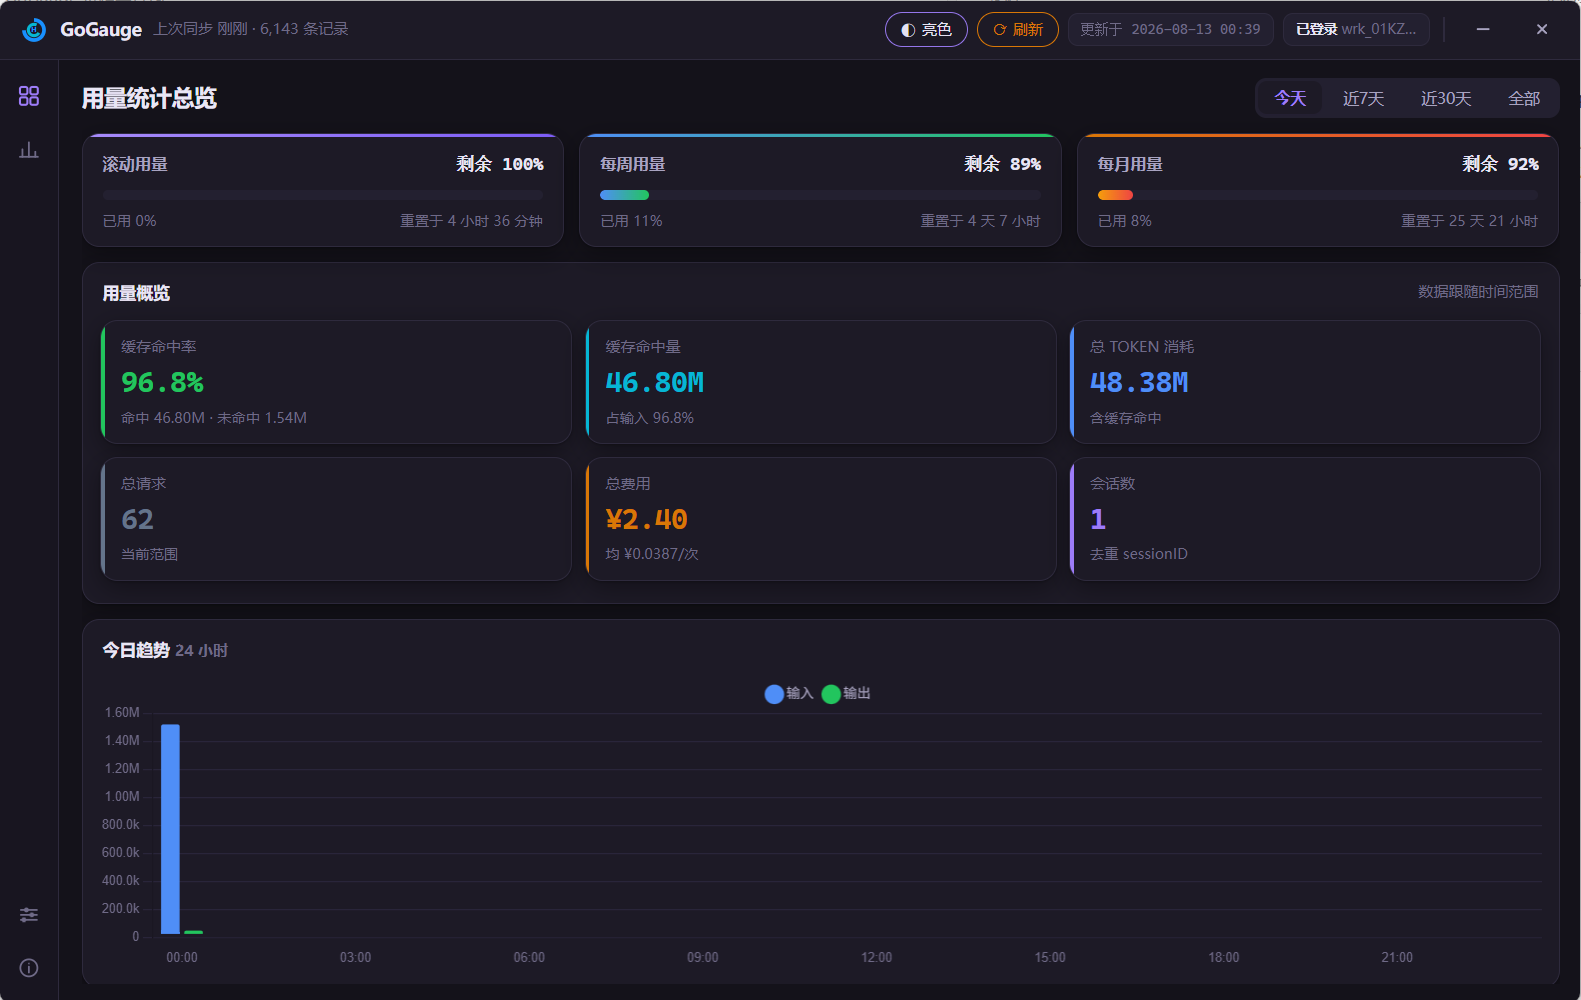
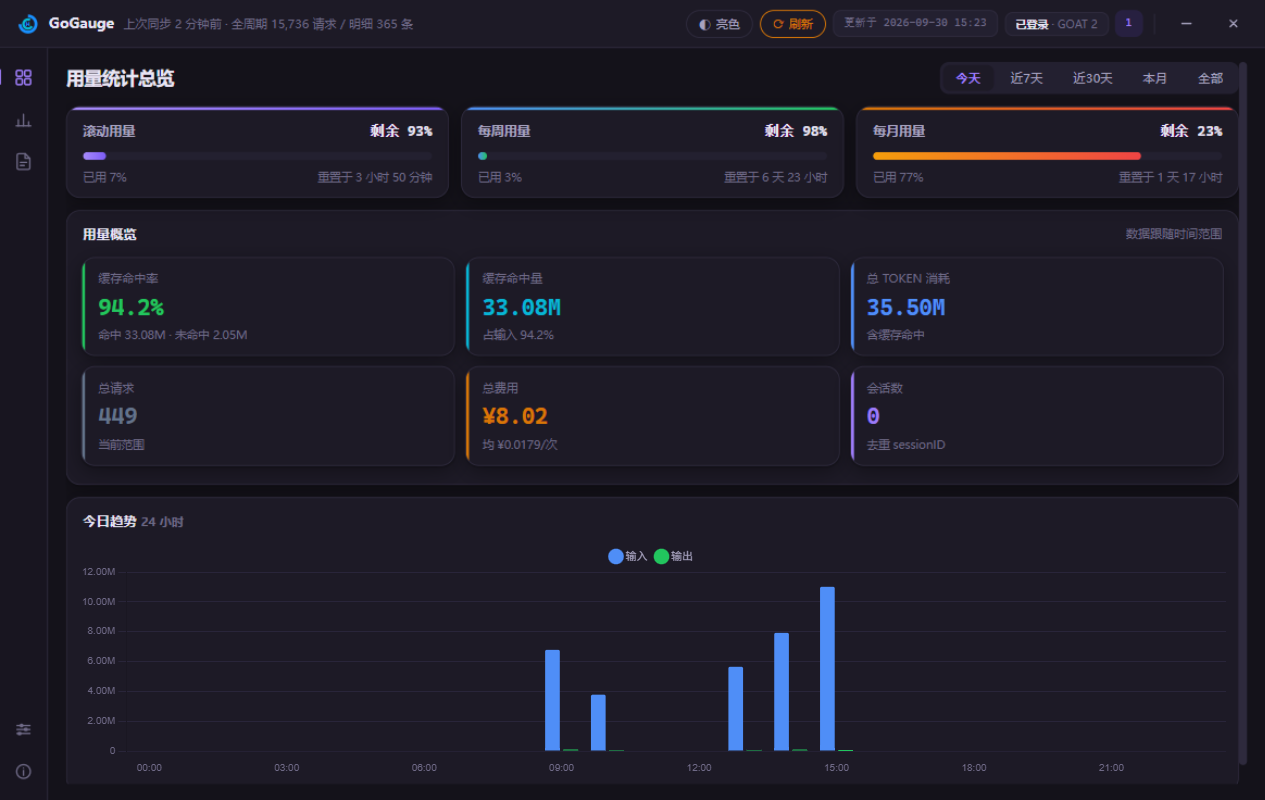
docs(readme): 修正过时描述 + 重拍全平台截图
- 关闭窗口: 删除与"最小化到托盘"自相矛盾的"关闭即退出应用"; 33b7220 引入
  该文案后托盘被 v2.2.0 合并恢复, 文档只回滚了一半
- 汇率缓存 24h -> 6h (server.py _EXCHANGE_TTL)
- 打包体积 38MB -> 17MB (build.bat 已排除 numpy/cryptography/PIL._avif)
- "版本更新"从 macOS 增强提为通用功能: updater 双平台分别取 .exe / .zip
- 数据说明补全 Command Code 接口清单, 并写明其 usage 仅保留 24h/100 条的硬限制
- 隐私条目写明 DPAPI / 钥匙串加密, 把"绝不写入日志"收窄为可核对的事实
- docs/macos.md: CI 构建机 macos-13 -> macos-15-intel (旧镜像已退役)
- assets/screenshots: 重拍 7 张 (原图停在 v1.0.0, 缺图表动画/账户总览面板等新项)

中英 README 同步修改。

diff --git a/README_en.md b/README_en.md
@@ -57,9 +57,10 @@
 - **Accounts overview panel**: toggle in settings, aggregates each account's quota windows and today's usage with cross-account summary KPIs and a 7-day cost trend comparison
 - **Built-in WebView login**: independent login window opens the opencode.ai console sign-in page, auto-captures session & workspace — no manual copy-paste
 - **Auto sync**: incremental sync (1/5/15/30 min) + sync range (30/60/90/180 days / All)
+- **Version updates**: the settings page checks GitHub Releases; a new version can be downloaded in-app (`.exe` on Windows, `.zip` on macOS, revealed in Finder), falling back to the release page
 - **Dual themes**: light / dark toggle; bilingual UI (中文 / English)
 - **System tray / menu bar**: closing the window minimizes to the system tray (Windows) or the menu bar (macOS); brand logo icons
-- **macOS extras**: menu-bar quick panel for today's usage (30s refresh), semi-automatic updates, launch-at-login — see [docs/macos.md](docs/macos.md)
+- **macOS extras**: menu-bar quick panel for today's usage (30s refresh), launch-at-login (LaunchAgent) — see [docs/macos.md](docs/macos.md)
 - **Local-first**: all data stays in local SQLite; credentials are only used to sync official APIs
 
 ## 🖥 Quick Start
@@ -72,7 +73,7 @@ Download `GoGauge-vX.X.X-windows.exe` (single file, no install) from [Releases](
 2. After login, the dashboard loads and usage data syncs automatically
 3. Data is stored in the `data\` folder next to the exe
 
-> Requires Windows 10/11 (WebView2 Runtime built-in). Closing the window quits the app.
+> Requires Windows 10/11 (WebView2 Runtime built-in). Closing the window minimizes to the system tray; use the tray menu's "Quit" to exit.
 
 > ⚠ **Upgrading from v2.1.0 or earlier**: opencode.ai switched to its new console API, so the stored session is void. The stale credential is cleared automatically, the app returns to the welcome page — just log in once (local history is kept).
 
@@ -104,7 +105,7 @@ python entry.py
 build.bat
 ```
 
-Output: `dist\GoGauge.exe` (~38 MB, --noconsole, logo icon included).
+Output: `dist\GoGauge.exe` (~17 MB, --noconsole, logo icon included).
 
 **macOS**
 
@@ -119,15 +120,16 @@ Output: `dist/GoGauge.app` (no console window; `.icns` icon and menu-bar tray su
 
 ## 📊 Data Notes
 
-- **Source**: OpenCode Go = opencode.ai console API (`/console/api`) — `go/status` quota + `request-logs` usage detail + `service-accounts` key names; Command Code GOAT = api.commandcode.ai internal API (credits / usage)
+- **Source**: OpenCode Go = opencode.ai console API (`/console/api`) — `go/status` quota + `request-logs` usage detail + `service-accounts` key names; Command Code GOAT = api.commandcode.ai internal API — `billing/credits` / `billing/subscriptions` quota + `usage` / `usage/summary` detail + `usage/charts` per-cycle aggregation
 - **Total tokens** = input (incl. cache hits) + output + reasoning
 - **Cache hit rate** = hits / (hits + misses)
-- **Cost**: raw USD; CNY converted via open.er-api.com live FX rate (24h cache)
-- **Detail range**: the official API only retains the last 30 days of request detail (quota windows are unaffected)
+- **Cost**: raw USD; CNY converted via open.er-api.com live FX rate (6-hour cache, refreshed in the background after expiry)
+- **Detail range**: the OpenCode official API only retains the last 30 days of request detail (quota windows are unaffected); Command Code's `usage` API keeps only the last 24 hours / 100 entries, with older data filled in from the `usage/charts` per-cycle aggregation
 
 ## 🔒 Privacy
 
-- Login cookie stays on your machine only — never logged, never uploaded
+- Login cookie / token stays on your machine only (DPAPI-encrypted on packaged Windows builds, stored in the system keychain on packaged macOS builds) — never uploaded
+- Login diagnostics (system temp `gousage_login.log`) record only page classes and truncated navigation URLs, never cookie values; the main log (data-dir `gousage_main.log`) records startup/sync milestones only
 - Usage data is stored entirely locally; the app contains no telemetry
 
 ## 🛠 Tech Stack

diff --git a/README.md b/README.md
@@ -57,9 +57,10 @@
 - **账户总览面板**：设置中可开关，聚合展示各账户配额三窗口、今日用量与跨账号合计 KPI、7 日费用趋势对比
 - **内置 WebView 登录**：独立登录窗口打开 opencode.ai 控制台登录页，自动回填会话凭证与工作区，无需手动复制
 - **自动同步**：增量同步（1/5/15/30 分钟可选）+ 同步范围设置（30/60/90/180 天 / 所有）
+- **版本更新**：设置页检查 GitHub Releases；有新版可应用内下载（Windows 取 `.exe`，macOS 取 `.zip` 并定位到 Finder），失败时兜底打开发布页
 - **双主题**：亮色 / 深色一键切换；中英双语界面
 - **系统托盘 / 菜单栏**：Windows 关闭窗口最小化到托盘，macOS 关闭窗口最小化到菜单栏；应用图标使用品牌 Logo
-- **macOS 增强**：菜单栏今日用量快捷面板（30s 刷新）、半自动更新、开机自启 —— 详见 [docs/macos.md](docs/macos.md)
+- **macOS 增强**：菜单栏今日用量快捷面板（30s 刷新）、开机自启（LaunchAgent）—— 详见 [docs/macos.md](docs/macos.md)
 - **本地优先**：所有数据保存在本机 SQLite，登录凭据仅用于同步官方接口
 
 ## 🖥 快速开始
@@ -72,7 +73,7 @@
 2. 完成登录后自动进入面板并同步用量数据
 3. 数据保存在 exe 同目录 `data\` 文件夹
 
-> 需要 Windows 10/11（自带 WebView2 Runtime）。关闭窗口即退出应用。
+> 需要 Windows 10/11（自带 WebView2 Runtime）。关闭窗口最小化到系统托盘，退出请用托盘菜单「退出」。
 
 > ⚠ **从 v2.1.0 及更早版本升级**：opencode.ai 已改用新的控制台接口，登录态随之失效。旧凭证会被自动清除，应用会回到欢迎页，重新登录一次即可（本地历史数据保留）。
 
@@ -104,7 +105,7 @@ python entry.py
 build.bat
 ```
 
-输出 `dist\GoGauge.exe`（约 38 MB，--noconsole 无黑窗，含 logo 图标）。
+输出 `dist\GoGauge.exe`（约 17 MB，--noconsole 无黑窗，含 logo 图标）。
 
 **macOS**
 
@@ -119,15 +120,16 @@ build.bat
 
 ## 📊 数据说明
 
-- **数据来源**：OpenCode Go = opencode.ai 控制台接口（`/console/api`）—— `go/status` 配额 + `request-logs` 请求明细 + `service-accounts` Key 名称；Command Code GOAT = api.commandcode.ai internal API（credits / usage）
+- **数据来源**：OpenCode Go = opencode.ai 控制台接口（`/console/api`）—— `go/status` 配额 + `request-logs` 请求明细 + `service-accounts` Key 名称；Command Code GOAT = api.commandcode.ai internal API —— `billing/credits` / `billing/subscriptions` 配额 + `usage` / `usage/summary` 明细 + `usage/charts` 整周期聚合
 - **总 TOKEN** = 输入（含缓存命中）+ 输出 + 推理
 - **缓存命中率** = 命中 /（命中 + 未命中）
-- **费用**：USD 原始值，人民币按 open.er-api.com 实时汇率换算（24h 缓存）
-- **明细范围**：官方接口仅保留最近 30 天请求明细（配额窗口不受影响）
+- **费用**：USD 原始值，人民币按 open.er-api.com 实时汇率换算（6 小时缓存，过期后后台刷新）
+- **明细范围**：OpenCode 官方接口仅保留最近 30 天请求明细（配额窗口不受影响）；Command Code 的 `usage` 接口仅保留最近 24 小时 / 100 条，更早的数据由 `usage/charts` 周期聚合补齐
 
 ## 🔒 隐私
 
-- 登录 cookie 仅保存在本机，绝不写入日志、绝不上传
+- 登录 cookie / token 仅保存在本机（Windows 打包版经 DPAPI 加密、macOS 打包版存入系统钥匙串），绝不上传
+- 登录诊断日志（系统临时目录 `gousage_login.log`）只记录页面分类与截断后的导航 URL，不含 cookie 值；主流程日志（数据目录 `gousage_main.log`）仅记录启动/同步节点
 - 用量数据全部本地存储，应用不含任何遥测
 
 ## 🛠 技术栈
